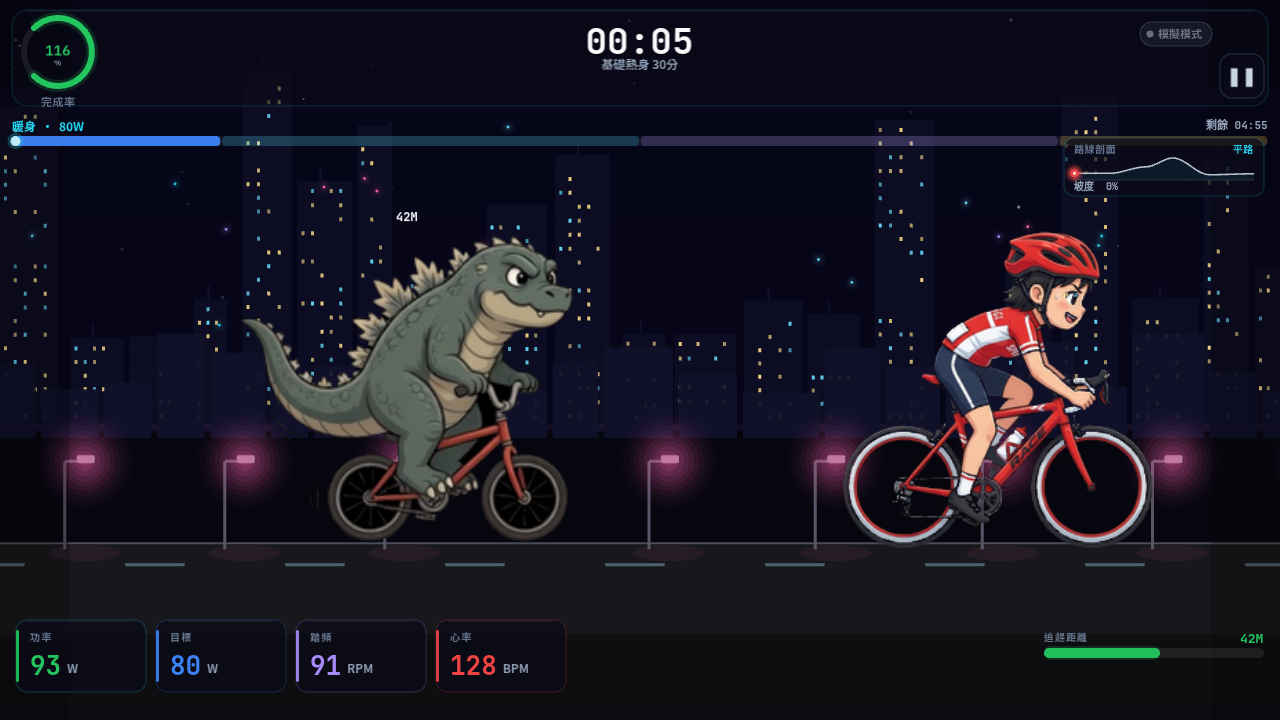
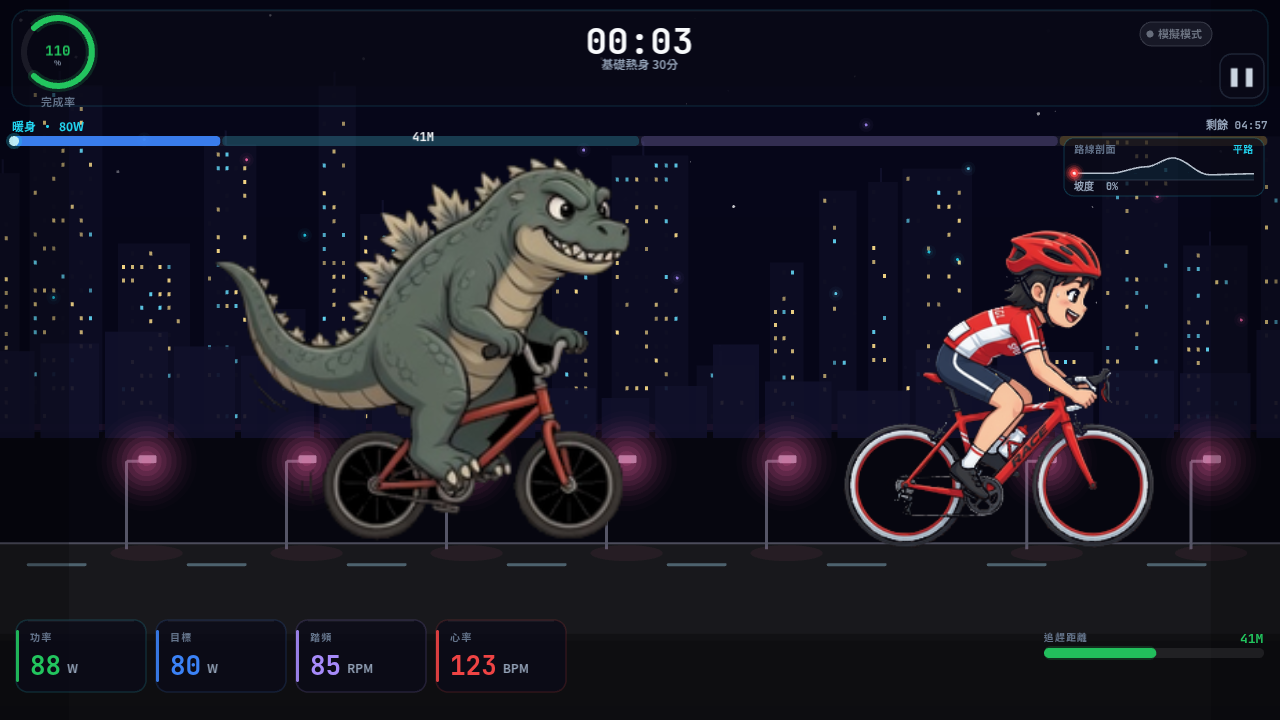
Tune chaser display scales for pressure and shiba ratio
- Shiba 300→170 (dog clearly smaller than rider 320)
- Bear 310→380, Godzilla 320→400, dumptruck 430→520
  for stronger on-screen pressure

diff --git a/src/renderer/game/themes.ts b/src/renderer/game/themes.ts
@@ -33,7 +33,8 @@ export interface ChaserConfig {
   attackFrames: FrameRect[]
   /**
    * 畫面顯示高度（px）。騎士 RIDER_DISPLAY_H = 320。
-   * 人物類建議 280–320；車輛類建議 380–450。
+   * 柴犬等小動物 ~160–180；人物騎乘 ~290–320；
+   * 大型壓迫感角色（熊／哥吉拉）~360–400；重型車輛 ~480–540。
    * chase-scene：scale = (displayHeight / 幀平均高) * scaleMul
    */
   displayHeight: number
@@ -337,7 +338,8 @@ export const THEMES: Record<string, ChaseTheme> = {
       assetAlias: 'chaser-shiba',
       runFrames: DOG_RUN_FRAMES,
       attackFrames: DOG_ATTACK_FRAMES,
-      displayHeight: 300,
+      // 柴犬應明顯小於騎士（320）；過大則比例失衡
+      displayHeight: 170,
       tint: 0xffffff,
       scaleMul: 1,
     },
@@ -396,7 +398,8 @@ export const THEMES: Record<string, ChaseTheme> = {
       assetAlias: 'chaser-bear',
       runFrames: BEAR_RUN_FRAMES,
       attackFrames: BEAR_ATTACK_FRAMES,
-      displayHeight: 310,
+      // 大於騎士，騎單車黑熊的壓迫感
+      displayHeight: 380,
       tint: 0xffffff,
       scaleMul: 1,
     },
@@ -455,7 +458,8 @@ export const THEMES: Record<string, ChaseTheme> = {
       assetAlias: 'chaser-godzilla',
       runFrames: GODZILLA_RUN_FRAMES,
       attackFrames: GODZILLA_ATTACK_FRAMES,
-      displayHeight: 320,
+      // 哥吉拉明顯高於騎士，製造壓迫
+      displayHeight: 400,
       tint: 0xffffff,
       scaleMul: 1,
     },
@@ -699,7 +703,8 @@ export const THEMES: Record<string, ChaseTheme> = {
       assetAlias: 'chaser-dumptruck',
       runFrames: DUMPTRUCK_RUN_FRAMES,
       attackFrames: DUMPTRUCK_ATTACK_FRAMES,
-      displayHeight: 430,
+      // 重型砂石車壓過畫面，壓迫感優先
+      displayHeight: 520,
       tint: 0xffffff,
       scaleMul: 1,
     },

diff --git a/src/renderer/game/chase-scene.ts b/src/renderer/game/chase-scene.ts
@@ -1194,7 +1194,7 @@ export class ChaseScene extends PIXI.Container {
     this.chaserAtkSprite = new PIXI.AnimatedSprite(
       this._makeSheetFrames(baseTexture, cfg.attackFrames))
 
-    // 以幀平均像素高對齊 displayHeight（騎士 RIDER_DISPLAY_H=320；人物~300、車輛~400+）
+    // 以幀平均像素高對齊 displayHeight（騎士 320；柴犬~170；大型角色~380–400；重車~520）
     const avgH = cfg.runFrames.reduce((a, f) => a + f.h, 0) / Math.max(1, cfg.runFrames.length)
     this.chaserBaseScale = (cfg.displayHeight / avgH) * cfg.scaleMul
 
